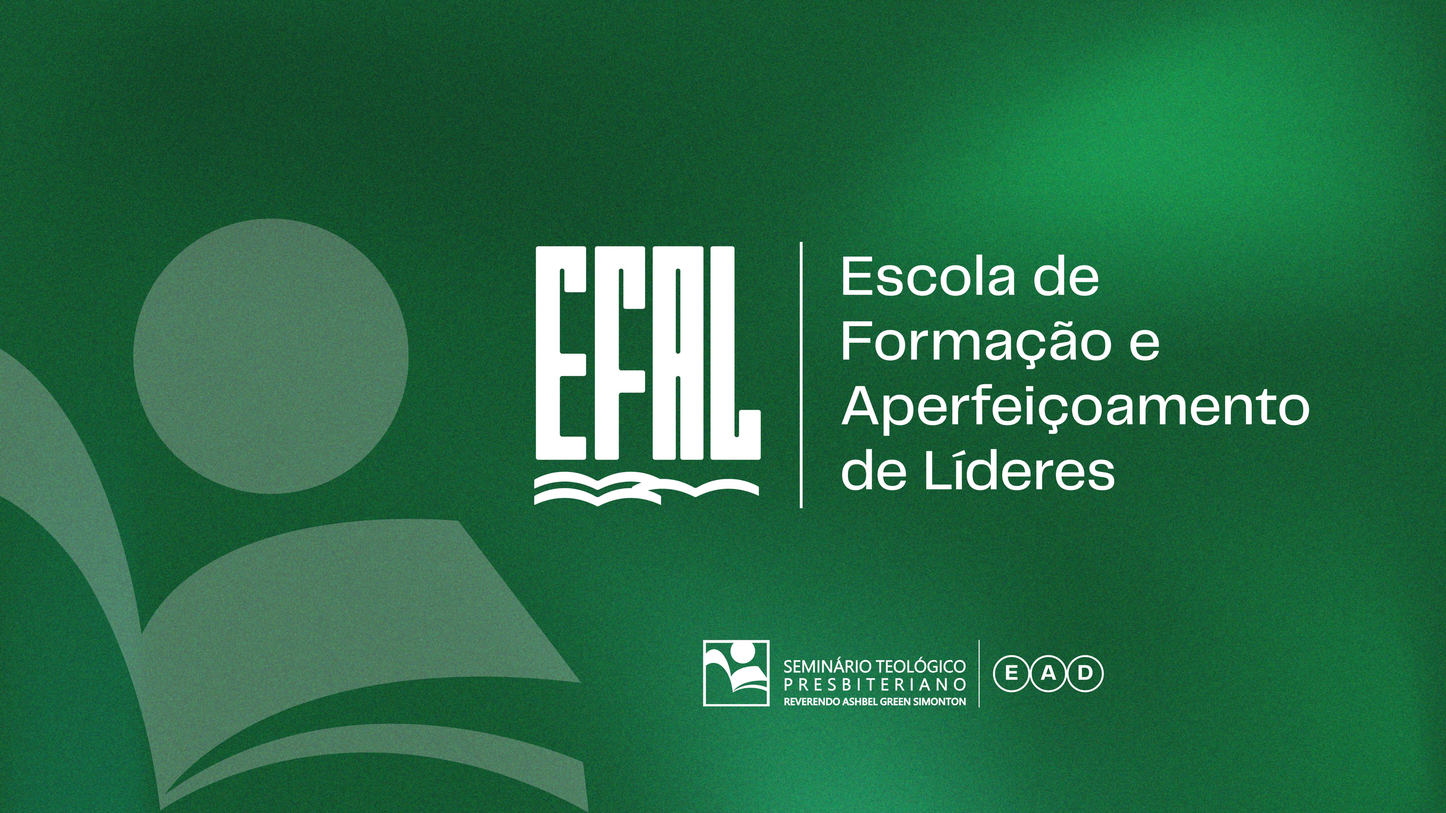
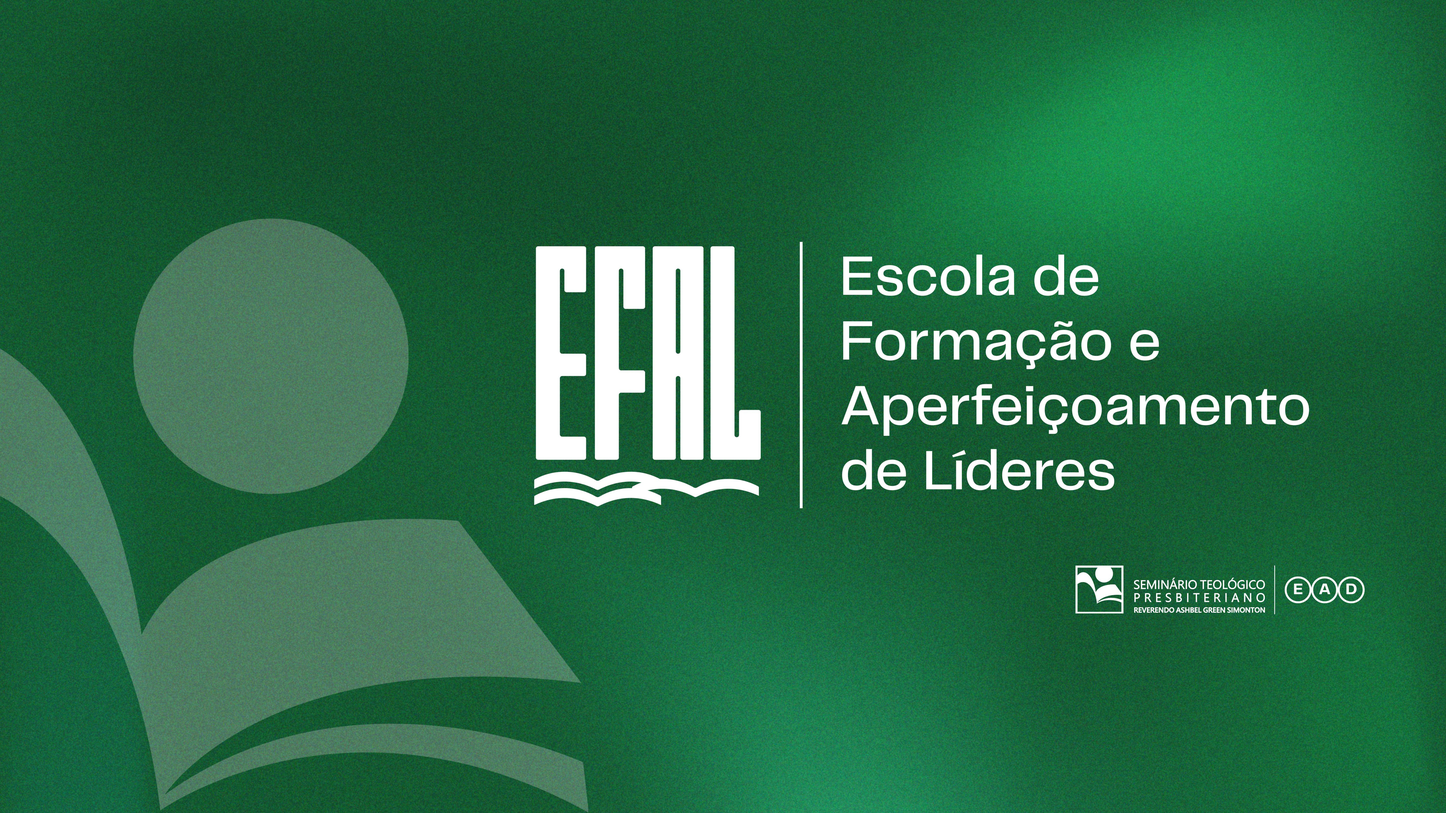
página da EFAL

Changed region(s): [[0.4688, 0.7755, 0.7812, 0.8685], [0.75, 0.6824, 0.9375, 0.7755]]

diff --git a/src/components/sections/online/EfalHero.tsx b/src/components/sections/online/EfalHero.tsx
@@ -14,8 +14,8 @@ export default function EfalHero({ proofBar }: { proofBar?: ReactNode }) {
   return (
     <>
       {/* Capa de ponta a ponta. O recorte (object-cover) só come a faixa de
-          verde vazio: com o foco em 60% da altura, sobram tanto o wordmark
-          quanto a assinatura do Seminário, no rodapé da arte. */}
+          verde vazio: com o foco em 52% da altura, sobram tanto o wordmark
+          quanto a assinatura do Seminário, à direita da arte. */}
       <div className="relative aspect-[16/9] w-full sm:aspect-[2/1] lg:aspect-[19/8]">
         <Image
           src="/images/capa-efal.jpg"
@@ -25,7 +25,7 @@ export default function EfalHero({ proofBar }: { proofBar?: ReactNode }) {
           sizes="100vw"
           // Fundo em degradê com granulado banda feio na qualidade padrão (75).
           quality={90}
-          className="object-cover object-[center_60%]"
+          className="object-cover object-[center_52%]"
         />
       </div>
 
